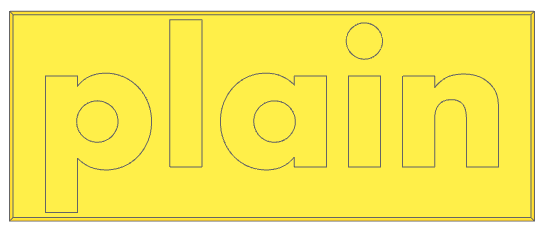
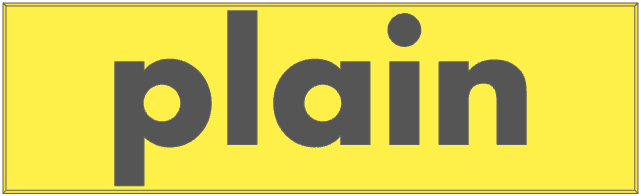
Split vscode_ocp parts to colour them, regenerate base images

diff --git a/src/gflabel/cli.py b/src/gflabel/cli.py
@@ -20,6 +20,7 @@ from build123d import (
     Compound,
     ExportSVG,
     FontStyle,
+    Keep,
     Location,
     Locations,
     Mode,
@@ -273,4 +274,22 @@ def run(argv: list[str] | None = None):
     if args.vscode:
         bd.export_stl(part.part, "label.stl")
         export_step(part.part, "label.step")
-        show(part)
+        # Split the base for display as two colours
+        show_parts = []
+        show_cols: list[str | tuple[float, float, float] | None] = []
+        top = part.part.split(Plane.XY, keep=Keep.TOP)
+        if top:
+            show_parts.append(top)
+            show_cols.append((0.2, 0.2, 0.2))
+        if args.base != "none":
+            bottom = part.part.split(Plane.XY, keep=Keep.BOTTOM)
+            if bottom:
+                show_parts.append(bottom)
+                show_cols.append(None)
+
+        show(
+            *show_parts,
+            colors=show_cols,
+            # position=[0, -10, 10],
+            # target=[0, 0, 0],
+        )
